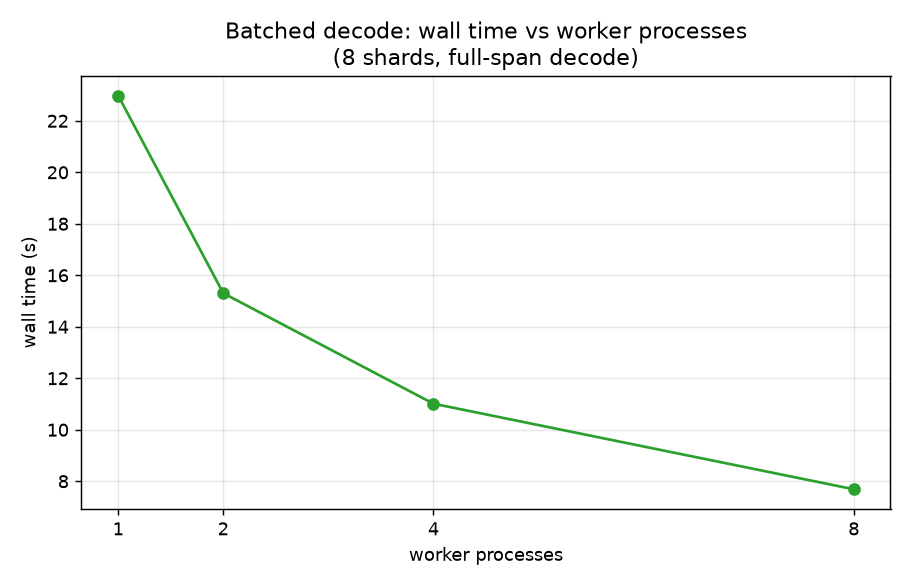
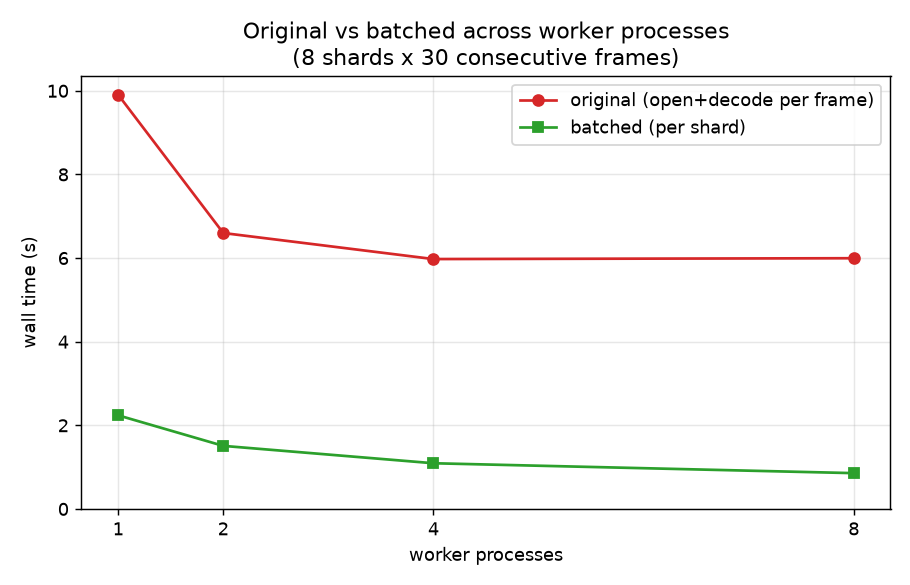
docs(lerobot benchmark): compare original vs batched across worker counts
More workers do not let the per-frame version catch up: it plateaus while batched
keeps scaling, and batched on 1 worker beats original on 8.

diff --git a/benchmarking/lerobot_video_decode/worker_scaling.py b/benchmarking/lerobot_video_decode/worker_scaling.py
@@ -1,17 +1,17 @@
-"""Worker-scaling for the batched decode: multi-shard decode across N processes.
+"""Original vs batched decode across worker counts.
 
-With multiple shards, the batched decode parallelizes across worker processes -
-each process opens and decodes a different shard. To measure decode-compute
-scaling (not image serialization), each row returns a scalar (mean pixel) rather
-than the image, and each shard is decoded over its full span (~632 frames) to make
-decode the dominant cost. Local shard copies, so this is CPU-decode parallelism,
-not the network-fetch parallelism that also benefits on a real cluster.
+Answers: can more workers let the per-frame version catch up? No - the original
+re-opens and re-decodes from the keyframe for every frame, and parallelism only
+spreads that redundant work. Uses dense consecutive frames (the real LeRobot case)
+over local shard copies, and returns a scalar per row so decode compute (not image
+serialization) is what is measured. Downloads a ~7MB shard on first run.
 
     python worker_scaling.py
 """
 
 from __future__ import annotations
 
+import json
 import os
 import shutil
 import time
@@ -23,6 +23,7 @@ os.environ["DAFT_PROGRESS_BAR"] = "0"
 import daft
 from daft.datatype import DataType
 from daft.functions import video_file
+from daft.udf import func
 
 HERE = Path(__file__).parent
 CHARTS = HERE / "charts"
@@ -32,52 +33,78 @@ SHARD_URL = (
     "videos/observation.image/chunk-000/file-000.mp4"
 )
 SHARDS = 8
-TARGETS = [0.0, 5.0, 10.0, 15.0, 20.0]  # span the full shard -> decode all frames
+FPS = 30
+NFRAMES = 30  # dense consecutive frames per shard
+TOL = 1.0 / FPS / 2.0
 WORKERS = [1, 2, 4, 8]
 
 
[email redacted](return_dtype=DataType.float64(), use_process=True)
-def _decode_mean(files, tss):
-    """Batched decode grouped by shard; returns a scalar per row to isolate decode cost."""
+@func(return_dtype=DataType.float64(), use_process=True)
+def orig_mean(file, from_ts, frame_ts, tol):
+    """Original per-row behavior: reopen + seek-to-keyframe + decode forward, per frame."""
     import av
 
-    file_list = files.to_pylist()
-    ts_list = tss.to_pylist()
-    by_shard: dict = {}
-    shard_file: dict = {}
-    for i, f in enumerate(file_list):
-        by_shard.setdefault(f.path, []).append((i, float(ts_list[i])))
-        shard_file[f.path] = f
-    results = [0.0] * len(file_list)
-    for path, targets in by_shard.items():
+    abs_ts = float(from_ts) + float(frame_ts)
+    tail = max(0.1, float(tol) * 50.0, 1.0 / 24.0)
+    best = (1e9, 0.0)
+    with file.open() as f_open, av.open(f_open) as c:
+        st = c.streams.video[0]
+        c.seek(max(0, int(abs_ts * av.time_base)), backward=True)
+        for vf in c.decode(st):
+            if vf.pts is None:
+                continue
+            cts = float(vf.pts * st.time_base)
+            d = abs(cts - abs_ts)
+            if d < best[0]:
+                best = (d, float(vf.to_ndarray(format="rgb24").mean()))
+            if cts >= abs_ts + tail:
+                break
+    return best[1]
+
+
[email redacted](return_dtype=DataType.float64(), use_process=True)
+def batched_mean(files, from_col, frame_col, tol):
+    """Batched: group rows by shard, decode the span once."""
+    import av
+
+    fl = files.to_pylist()
+    fr = from_col.to_pylist()
+    fm = frame_col.to_pylist()
+    by = {}
+    sf = {}
+    for i, f in enumerate(fl):
+        by.setdefault(f.path, []).append((i, float(fr[i]) + float(fm[i])))
+        sf[f.path] = f
+    res = [0.0] * len(fl)
+    for path, targets in by.items():
         earliest = min(t for _, t in targets)
         latest = max(t for _, t in targets)
-        best = {row: (1e9, 0.0) for row, _ in targets}
-        with shard_file[path].open() as f_open, av.open(f_open) as container:
-            stream = container.streams.video[0]
-            container.seek(max(0, int(earliest * av.time_base)), backward=True)
-            for vf in container.decode(stream):
+        best = {r: (1e9, 0.0) for r, _ in targets}
+        with sf[path].open() as f_open, av.open(f_open) as c:
+            st = c.streams.video[0]
+            c.seek(max(0, int(earliest * av.time_base)), backward=True)
+            for vf in c.decode(st):
                 if vf.pts is None:
                     continue
-                cts = float(vf.pts * stream.time_base)
-                mean = float(vf.to_ndarray(format="rgb24").mean())
-                for row, target in targets:
-                    dist = abs(cts - target)
-                    if dist < best[row][0]:
-                        best[row] = (dist, mean)
-                if cts >= latest + 0.1:
+                cts = float(vf.pts * st.time_base)
+                m = float(vf.to_ndarray(format="rgb24").mean())
+                for r, tg in targets:
+                    d = abs(cts - tg)
+                    if d < best[r][0]:
+                        best[r] = (d, m)
+                if cts >= latest + max(0.1, float(tol) * 50.0):
                     break
-        for row, _ in targets:
-            results[row] = best[row][1]
-    return results
+        for r, _ in targets:
+            res[r] = best[r][1]
+    return res
 
 
-def ensure_shards(k):
+def ensure_shards():
     if not SHARD.exists():
         print(f"downloading shard -> {SHARD}")
         urllib.request.urlretrieve(SHARD_URL, SHARD)
     out = []
-    for i in range(k):
+    for i in range(SHARDS):
         p = HERE / f"shard_{i}.mp4"
         if not p.exists():
             shutil.copy(SHARD, p)
@@ -85,31 +112,39 @@ def ensure_shards(k):
     return out
 
 
-def run(workers, shards):
-    urls, tss = [], []
+def build_df(shards):
+    urls, from_vals, frame_vals = [], [], []
     for s in shards:
-        for t in TARGETS:
+        for i in range(NFRAMES):
             urls.append(s)
-            tss.append(t)
-    df = daft.from_pydict({"url": urls, "ts": tss})
-    df = df.with_column("v", video_file(df["url"])).into_batches(len(TARGETS))
-    fn = _decode_mean.with_concurrency(workers)
-    df = df.with_column("m", fn(df["v"], df["ts"]))
+            from_vals.append(0.0)
+            frame_vals.append(i / FPS)
+    df = daft.from_pydict({"url": urls, "from": from_vals, "frame": frame_vals})
+    return df.with_column("v", video_file(df["url"])).into_batches(NFRAMES)
+
+
+def run(kind, workers, shards):
+    df = build_df(shards)
+    fn = (orig_mean if kind == "orig" else batched_mean).with_concurrency(workers)
+    df = df.with_column("m", fn(df["v"], df["from"], df["frame"], TOL))
     start = time.perf_counter()
     df.select("m").collect()
     return time.perf_counter() - start
 
 
 def main():
-    shards = ensure_shards(SHARDS)
-    print(f"{SHARDS} shards, full-span decode (~632 frames each)\n")
-    results = []
-    base = None
+    shards = ensure_shards()
+    print(f"{SHARDS} shards x {NFRAMES} consecutive frames = {SHARDS * NFRAMES} rows\n")
+    print(f"{'workers':>7}  {'original':>9}  {'batched':>9}  {'ratio':>6}")
+    orig, batched = [], []
     for w in WORKERS:
-        dt = run(w, shards)
-        base = base or dt
-        results.append((w, dt))
-        print(f"  workers={w:2d}  wall={dt:6.2f}s  speedup={base / dt:4.1f}x", flush=True)
+        o = run("orig", w, shards)
+        b = run("batched", w, shards)
+        orig.append(o)
+        batched.append(b)
+        print(f"{w:>7}  {o:>8.2f}s  {b:>8.2f}s  {o / b:>5.1f}x", flush=True)
+
+    (HERE / "worker_scaling.json").write_text(json.dumps({"workers": WORKERS, "orig": orig, "batched": batched}))
 
     import matplotlib
 
@@ -117,11 +152,14 @@ def main():
     import matplotlib.pyplot as plt
 
     fig, ax = plt.subplots(figsize=(7, 4.5))
-    ax.plot([w for w, _ in results], [d for _, d in results], "o-", color="#2ca02c")
-    ax.set_title(f"Batched decode: wall time vs worker processes\n({SHARDS} shards, full-span decode)")
+    ax.plot(WORKERS, orig, "o-", color="#d62728", label="original (open+decode per frame)")
+    ax.plot(WORKERS, batched, "s-", color="#2ca02c", label="batched (per shard)")
+    ax.set_title(f"Original vs batched across worker processes\n({SHARDS} shards x {NFRAMES} consecutive frames)")
     ax.set_xlabel("worker processes")
     ax.set_ylabel("wall time (s)")
-    ax.set_xticks([w for w, _ in results])
+    ax.set_xticks(WORKERS)
+    ax.set_ylim(bottom=0)
+    ax.legend()
     ax.grid(True, alpha=0.3)
     fig.tight_layout()
     CHARTS.mkdir(exist_ok=True)

diff --git a/benchmarking/lerobot_video_decode/README.md b/benchmarking/lerobot_video_decode/README.md
@@ -52,23 +52,25 @@ batched decode survives process serialization. Each worker/process opens the sha
 in its own batches once (file handles are not shared across processes); partition by
 shard to make that one download per shard per worker.
 
-With multiple shards the decode parallelizes across worker processes
-(`.with_concurrency(N)`) - `worker_scaling.py`, 8 shards, full-span decode:
+Can more workers let the original catch up? No - `worker_scaling.py` runs both
+versions across worker counts (8 shards, dense consecutive frames, scalar return
+to isolate decode compute):
 
 ![workers](charts/chart_workers.png)
 
-| workers | wall | speedup |
-| --- | --- | --- |
-| 1 | 22.9s | 1.0× |
-| 2 | 15.3s | 1.5× |
-| 4 | 11.0s | 2.1× |
-| 8 | 7.6s | 3.0× |
+| workers | original | batched | ratio |
+| --- | --- | --- | --- |
+| 1 | 9.9s | 2.2s | 4.4× |
+| 2 | 6.6s | 1.5s | 4.4× |
+| 4 | 6.0s | 1.1s | 5.5× |
+| 8 | 6.0s | 0.9s | 7.0× |
 
-This isolates decode-compute scaling: each row returns a scalar so image
-serialization doesn't dominate, and the shards are local copies (no network). The
-sub-linear scaling is process-spawn overhead plus one-batch-per-shard granularity.
-On a real cluster, parallel network fetch of distinct shards is an additional win
-not captured here.
+The original **plateaus** (4→8 workers: no improvement) because it re-opens and
+re-decodes from the keyframe for every frame - parallelism only spreads that
+redundant work. Batched wins 4-7× at every worker count, and batched on **one**
+worker (2.2s) already beats the original on **eight** (6.0s). Local copies, so this
+is decode-compute; parallel network fetch of distinct shards is an extra real-cluster
+win not shown here.
 
 ## Running
 